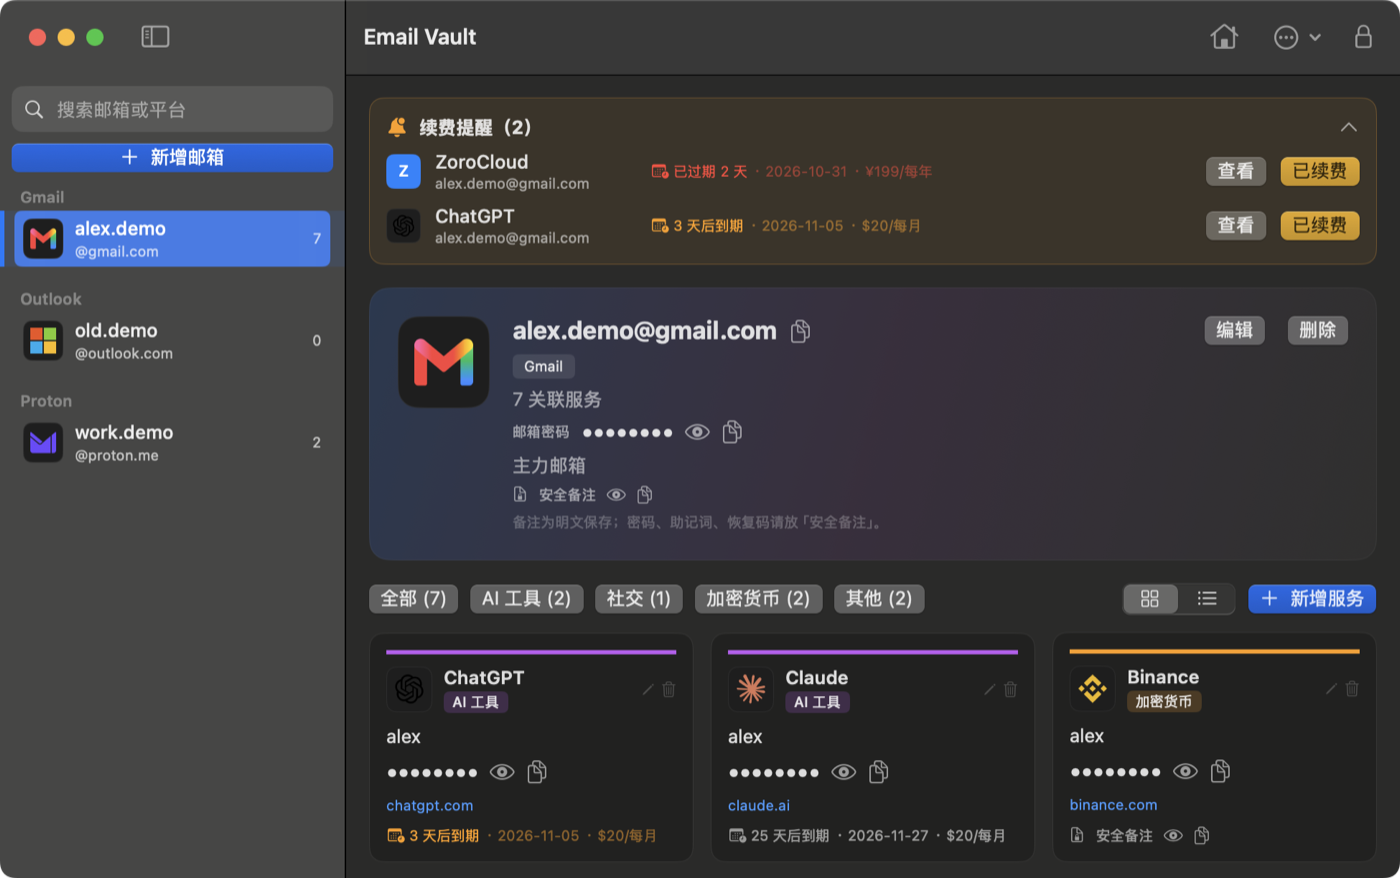
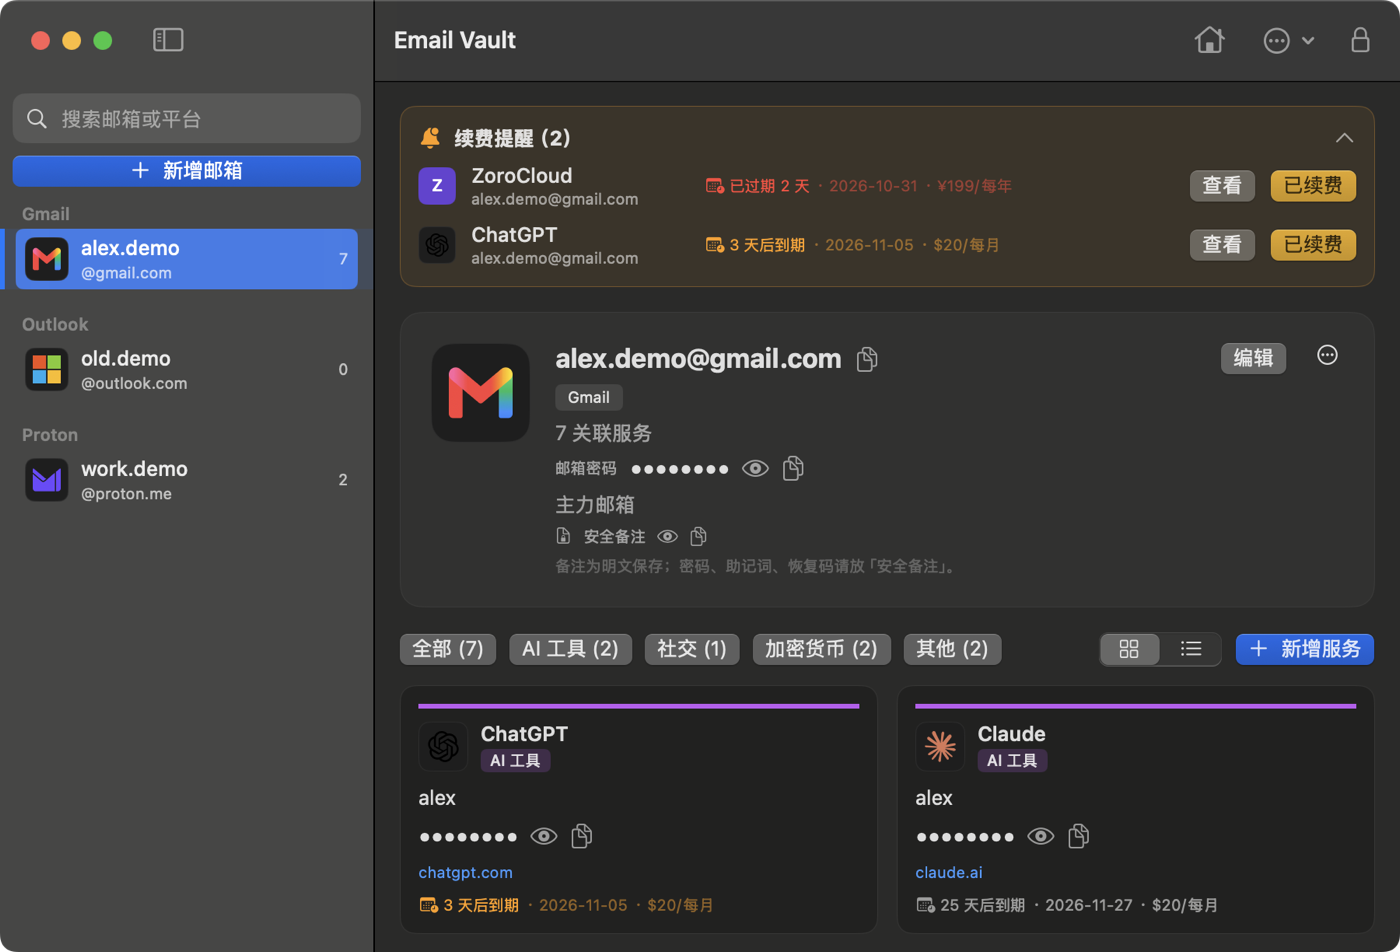
docs: bilingual README (English default, 简体中文) with fresh screenshots

diff --git a/README.md b/README.md
@@ -1,140 +1,144 @@
-# Email Vault
-
-一个纯本地、离线运行的 macOS 密码库，按「邮箱 → 注册过的平台」组织账号，跟踪订阅续费。
-
 <p align="center">
-  <img src="docs/screenshots/overview.png" width="49%" alt="总览">
-  <img src="docs/screenshots/detail.png" width="49%" alt="邮箱详情">
+  <img src="assets/icon.svg" width="128" alt="Email Vault icon">
 </p>
 
-<sub>截图使用演示数据。</sub>
+<h1 align="center">Email Vault</h1>
 
-## 特性
+<p align="center">
+  A local-only, offline password vault for macOS that organizes accounts by the email you signed up with — and keeps track of subscription renewals.
+</p>
 
-**账号管理**
-- 邮箱按服务商（Gmail、Outlook、Proton、iCloud、QQ……）分组；每个邮箱下记录它注册过的平台。
-- 内置 70+ 个常用平台目录（AI、社交、加密货币等），输入时自动补全名称、分类和网址，并匹配品牌图标。
-- 卡片 / 列表两种视图，按分类筛选；全局搜索邮箱、平台、用户名和备注。
+<p align="center">
+  <b>English</b> · <a href="README.zh-CN.md">简体中文</a>
+</p>
 
-**安全**
-- Argon2id 派生主密钥，AES-256-GCM 加密密码和安全备注；密钥只在内存中。
-- 可选 Touch ID 解锁（Secure Enclave，每 14 天仍需输入一次主密码）。
-- 闲置 10 分钟、睡眠、锁屏、屏保、切换用户时自动锁定。
-- 复制的密码标记为 concealed，30 秒后或锁定时自动清空剪贴板。
-- 支持修改主密码：单事务重新加密全部数据，失败整体回滚。
+<p align="center">
+  <a href="https://github.com/mortalxu98/email-vault/actions/workflows/ci.yml"><img src="https://github.com/mortalxu98/email-vault/actions/workflows/ci.yml/badge.svg" alt="CI"></a>
+  <img src="https://img.shields.io/badge/macOS-14%2B-blue" alt="macOS 14+">
+  <img src="https://img.shields.io/badge/Swift-5.9%2B-orange" alt="Swift 5.9+">
+  <a href="LICENSE"><img src="https://img.shields.io/badge/license-MIT-green" alt="MIT"></a>
+</p>
 
-**续费提醒**
-- 为服务设置到期日、周期（一次性 / 每月 / 每年）、金额和提前提醒天数。
-- 即将到期或已过期的项目在顶部横幅提示；「已续费」自动顺延一个周期。
+<p align="center">
+  <img src="docs/screenshots/overview-en.png" width="49%" alt="Overview">
+  <img src="docs/screenshots/detail-en.png" width="49%" alt="Email detail">
+</p>
 
-**数据**
-- 单个 SQLite 文件，结构变更只做加列，迁移前自动备份。
-- 一键导出一致性快照，备份中的敏感字段始终是密文。
+<p align="center"><sub>Screenshots use demo data.</sub></p>
 
-## 安装
+## Features
 
-从 [Releases](https://github.com/mortalxu98/email-vault/releases/latest) 下载最新的 `EmailVault-<版本>.dmg`，双击后把 Email Vault 拖到「应用程序」。
+**Accounts**
+- Emails are grouped by provider (Gmail, Outlook, Proton, iCloud, QQ…); each email lists the platforms registered with it.
+- 70+ built-in platforms (AI, social, crypto…) with autocomplete for name, category and URL, plus brand icons.
+- Card and list views, category filters and global search; right-click to copy a username or password or open the URL.
 
-本应用未经 Apple 公证。首次打开时系统会提示无法验证开发者：点「完成」，再到 **系统设置 → 隐私与安全性** 底部点「仍要打开」，只需一次。
+**Security**
+- Argon2id key derivation and AES-256-GCM encryption for passwords and secure notes; the key lives only in memory.
+- Secure notes for seed phrases, recovery codes and 2FA secrets, encrypted like passwords.
+- Optional Touch ID unlock backed by the Secure Enclave; the master password is still required every 14 days.
+- Auto-lock after 10 minutes idle and on sleep, screen lock, screensaver or user switch.
+- Copied secrets are marked concealed and cleared after 30 seconds or on lock.
+- Change the master password with a single-transaction re-encryption that rolls back on any failure.
 
-### 从源码构建
+**Renewals**
+- Track due date, cycle (one-time, monthly, yearly), amount and how many days ahead to be reminded.
+- Upcoming and overdue renewals show in a banner; "Renewed" moves the date forward one cycle.
 
-要求：macOS 14+，Swift 5.9+ 工具链（Command Line Tools 即可，无需完整 Xcode）。
+**Data**
+- One SQLite file; schema changes are additive and the database is backed up before every migration.
+- One-click encrypted backup, plus a plain-text CSV export (master password required) for migrating elsewhere.
+- English and Simplified Chinese UI, following the system language.
+
+## Install
+
+Download the latest `EmailVault-<version>.dmg` from [Releases](https://github.com/mortalxu98/email-vault/releases/latest), open it and drag Email Vault into Applications. Requires macOS 14+ on Apple silicon.
+
+The app is not notarized by Apple. On first launch macOS says it can't verify the developer: click **Done**, then go to **System Settings → Privacy & Security** and click **Open Anyway** at the bottom. You only need to do this once.
+
+On first launch you set a master password (8+ characters). **It cannot be recovered** — if you forget it, the data cannot be decrypted.
+
+To upgrade, drag the new version into Applications and choose Replace. Your data lives in `~/.local/share/email-vault/` and is left untouched. **Email Vault → Check for Updates…** opens the latest release page.
+
+### Build from source
+
+Requires macOS 14+ and a Swift 5.9+ toolchain (Command Line Tools are enough).
 
 ```bash
 git clone https://github.com/mortalxu98/email-vault.git
 cd email-vault/email-swift
-./scripts/package-dmg.sh           # 构建并打包 dist/EmailVault-<版本>.dmg
+./scripts/package-dmg.sh      # writes dist/EmailVault-<version>.dmg
 ```
 
-双击 DMG，把 Email Vault 拖到「应用程序」即可。升级时同样操作，选择替换；数据保存在 `~/.local/share/email-vault/`，不受影响。
+Run `./scripts/build.sh` if you only need the `.app`.
 
-版本号在 `email-swift/VERSION`，构建号取 git 提交数。只需要 `.app` 时用 `./scripts/build.sh`。
+## Usage
 
-构建产物为 ad-hoc 签名、未公证；本机构建的 App 可直接打开。
-
-首次启动设置主密码（至少 8 个字符）。**主密码无法找回**，遗忘即无法解密数据。
-
-## 使用
-
-| 操作 | 方式 |
+| Action | How |
 |---|---|
-| 新增邮箱 | ⇧⌘N |
-| 新增服务 | ⌘N（需先选中邮箱） |
-| 搜索 | ⌘F |
-| 立即锁定 | ⌘L，或工具栏锁形按钮 |
-| 回到总览 | 工具栏房子按钮 |
-| 导出备份 / 修改主密码 / Touch ID | 工具栏「…」菜单 |
+| New email / new service | ⇧⌘N / ⌘N (select an email first) |
+| Search | ⌘F |
+| Lock now | ⌘L, or the lock button in the toolbar |
+| Back to overview | House button in the toolbar |
+| Copy, open URL, edit, delete | Right-click a service card |
+| Backup, CSV export, change password, Touch ID | Toolbar **…** menu |
 
-## 安全模型
+## Security model
 
-| 数据 | 存储方式 |
+| Data | Stored as |
 |---|---|
-| 邮箱密码、服务密码 | AES-256-GCM 密文 |
-| 安全备注（助记词、恢复码、2FA 密钥等） | AES-256-GCM 密文 |
-| 邮箱地址、平台名、用户名、网址、普通备注、续费信息 | 明文（用于搜索和提醒） |
+| Email and service passwords | AES-256-GCM ciphertext |
+| Secure notes | AES-256-GCM ciphertext |
+| Email addresses, platform names, usernames, URLs, notes, renewal info | Plain text (for search and reminders) |
 
-- **密钥派生**：Argon2id v1.3，`t=3, m=64 MiB, p=4`，16 字节随机 salt；参数存于数据库，可平滑调整。
-- **主密码校验**：用派生密钥解密固定校验串，不存储任何密码哈希。
-- **Touch ID**：保险箱密钥经 ECDH + HKDF + AES-GCM 封装到绑定当前指纹的 Secure Enclave 密钥，封装文件只能在本机解开；增删指纹后自动失效。
-- **不防护的场景**：已解锁状态下的本机恶意软件、能通过你指纹验证的人、主密码泄露。明文字段不要写敏感信息。
+- **Key derivation**: Argon2id v1.3, `t=3, m=64 MiB, p=4`, random 16-byte salt; parameters are stored in the database.
+- **Password check**: the derived key must decrypt a fixed verifier; no password hash is stored.
+- **Touch ID**: the vault key is sealed with ECDH + HKDF + AES-GCM to a Secure Enclave key bound to the current fingerprints. The sealed file only opens on this Mac and is invalidated when fingerprints change.
+- **Out of scope**: malware running while the vault is unlocked, anyone who passes your fingerprint check, a leaked master password. Don't put secrets in plain-text fields.
 
-应用不联网，不记录日志，不把明文写入磁盘、UserDefaults 或任何缓存。
+The app never touches the network, writes no logs and never stores plaintext on disk or in caches (except a CSV you explicitly export). The full on-disk format is specified in [docs/data-format.md](docs/data-format.md).
 
-## 数据与备份
+## Data and backups
 
-| 路径 | 内容 |
+| Path | Contents |
 |---|---|
-| `~/.local/share/email-vault/vault.db` | 数据库（权限 0600） |
-| `~/.local/share/email-vault/backups/` | 迁移、修改主密码前的自动备份 |
-| `~/.local/share/email-vault/vault.touchid.json` | Touch ID 封装（仅开启时存在） |
+| `~/.local/share/email-vault/vault.db` | Database (0600) |
+| `~/.local/share/email-vault/backups/` | Automatic backups before migrations and password changes |
+| `~/.local/share/email-vault/vault.touchid.json` | Touch ID seal (only when enabled) |
 
-设置环境变量 `EMAIL_VAULT_DB` 可指定其他数据库路径，例如用副本做测试：
+- **Back up**: toolbar **…** → Export Backup, or `sqlite3 ~/.local/share/email-vault/vault.db ".backup <dest>"`.
+- **Restore**: quit the app, replace `vault.db` with the backup and reopen; unlock with the master password from when the backup was made.
+- **Use another database**: `open -n --env EMAIL_VAULT_DB=/path/to/vault.db "/Applications/Email Vault.app"`.
 
-```bash
-open -n --env EMAIL_VAULT_DB=/tmp/vault-copy.db "/Applications/Email Vault.app"
-```
-
-**备份**：工具栏「…」→ 导出备份，或 `sqlite3 ~/.local/share/email-vault/vault.db ".backup <目标路径>"`。
-
-**恢复**：退出应用，用备份文件替换 `vault.db` 后重新打开，使用备份时的主密码解锁。若主密码与当前不同，Touch ID 会自动关闭，重新开启即可。
-
-## 开发
+## Development
 
 ```
 email-swift/
-├── Sources/EmailVaultCore/   加密、认证、SQLite 存储、平台目录（平台无关，可在 Linux 测试）
-├── Sources/EmailVaultApp/    SwiftUI 界面与应用状态
-├── Sources/CArgon2/          Argon2 官方 C 参考实现（vendored）
-├── Tests/                    Core 单元测试
-├── scripts/build.sh          构建 .app，支持 --dry-run / --debug
-├── scripts/package-dmg.sh    打包拖拽安装 DMG，支持 --skip-build / --dry-run
-└── scripts/release.sh        发布 GitHub Release（读取 VERSION，打 tag，上传 DMG）
+├── Sources/EmailVaultCore/   Crypto, auth, SQLite store and migrations, platform catalog, CSV export
+├── Sources/EmailVaultApp/    SwiftUI views and app state
+├── Sources/CArgon2/          Argon2 reference implementation
+├── Tests/                    Core unit tests
+├── Localization/             UI translations (en / zh-Hans)
+└── scripts/                  Build, DMG packaging, release, icon, translation check
 ```
 
 ```bash
 cd email-swift
 swift build
-swift test            # 需要完整 Xcode（XCTest）
+swift test        # needs full Xcode
 ```
 
-- 设计说明：[`email-swift/docs/design.md`](email-swift/docs/design.md)
-- 数据格式与加密测试向量：[`docs/data-format.md`](docs/data-format.md)
+See [CONTRIBUTING.md](CONTRIBUTING.md) for the workflow, conventions and release steps, [email-swift/docs/design.md](email-swift/docs/design.md) for architecture notes and [CHANGELOG.md](CHANGELOG.md) for release history.
 
-参与开发请阅读 [CONTRIBUTING.md](CONTRIBUTING.md)，发布流程也在其中。
+## Security
 
-开发调试一律使用临时数据库（`EMAIL_VAULT_DB`），不要直接操作真实数据。
+Please report vulnerabilities privately as described in [SECURITY.md](SECURITY.md) — not in public issues.
 
-## 安全
-
-发现漏洞请按 [SECURITY.md](SECURITY.md) 私下报告，不要开公开 Issue。
-
-## 许可证
+## License
 
 [MIT](LICENSE)
 
-## 致谢
+## Acknowledgements
 
-- [Argon2](https://github.com/P-H-C/phc-winner-argon2) 参考实现
-- [GRDB.swift](https://github.com/groue/GRDB.swift)、[swift-crypto](https://github.com/apple/swift-crypto)
-- 品牌图标来自 CC0 图标集 [gilbarbara/logos](https://github.com/gilbarbara/logos) 与 [Simple Icons](https://simpleicons.org)，商标归各自所有者，详见 [`Resources/README.md`](email-swift/Sources/EmailVaultApp/Resources/README.md)。
+- The [Argon2](https://github.com/P-H-C/phc-winner-argon2) reference implementation, [GRDB.swift](https://github.com/groue/GRDB.swift) and [swift-crypto](https://github.com/apple/swift-crypto)
+- Brand icons come from the CC0 sets [gilbarbara/logos](https://github.com/gilbarbara/logos) and [Simple Icons](https://simpleicons.org); trademarks belong to their owners.

diff --git a/README.zh-CN.md b/README.zh-CN.md
@@ -1,0 +1,144 @@
+<p align="center">
+  <img src="assets/icon.svg" width="128" alt="Email Vault 图标">
+</p>
+
+<h1 align="center">Email Vault</h1>
+
+<p align="center">
+  纯本地、离线运行的 macOS 密码库：按「邮箱 → 注册过的平台」组织账号，并跟踪订阅续费。
+</p>
+
+<p align="center">
+  <a href="README.md">English</a> · <b>简体中文</b>
+</p>
+
+<p align="center">
+  <a href="https://github.com/mortalxu98/email-vault/actions/workflows/ci.yml"><img src="https://github.com/mortalxu98/email-vault/actions/workflows/ci.yml/badge.svg" alt="CI"></a>
+  <img src="https://img.shields.io/badge/macOS-14%2B-blue" alt="macOS 14+">
+  <img src="https://img.shields.io/badge/Swift-5.9%2B-orange" alt="Swift 5.9+">
+  <a href="LICENSE"><img src="https://img.shields.io/badge/license-MIT-green" alt="MIT"></a>
+</p>
+
+<p align="center">
+  <img src="docs/screenshots/overview.png" width="49%" alt="总览">
+  <img src="docs/screenshots/detail.png" width="49%" alt="邮箱详情">
+</p>
+
+<p align="center"><sub>截图使用演示数据。</sub></p>
+
+## 特性
+
+**账号管理**
+- 邮箱按服务商（Gmail、Outlook、Proton、iCloud、QQ……）分组，每个邮箱下记录它注册过的平台。
+- 内置 70+ 常用平台（AI、社交、加密货币等），输入时自动补全名称、分类和网址，并显示品牌图标。
+- 卡片 / 列表视图、分类筛选、全局搜索；右键快速复制用户名、密码或打开网址。
+
+**安全**
+- Argon2id 派生主密钥，AES-256-GCM 加密密码与安全备注，密钥只在内存中。
+- 安全备注：加密保存助记词、恢复码、2FA 密钥。
+- 可选 Touch ID 解锁（Secure Enclave，每 14 天仍需输入一次主密码）。
+- 闲置 10 分钟、睡眠、锁屏、屏保、切换用户时自动锁定。
+- 复制的密码标记为 concealed，30 秒后或锁定时自动清除。
+- 修改主密码：单事务重新加密全部数据，失败整体回滚。
+
+**续费提醒**
+- 为服务设置到期日、周期（一次性 / 每月 / 每年）、金额和提前提醒天数。
+- 即将到期或已过期的项目在顶部提示，「已续费」自动顺延一个周期。
+
+**数据**
+- 单个 SQLite 文件；结构变更只做加列，迁移前自动备份。
+- 一键导出加密备份；需要迁移时可导出明文 CSV（需再次输入主密码）。
+- 界面支持简体中文和英文，跟随系统语言。
+
+## 安装
+
+从 [Releases](https://github.com/mortalxu98/email-vault/releases/latest) 下载最新的 `EmailVault-<版本>.dmg`，双击后把 Email Vault 拖到「应用程序」。要求 macOS 14+，Apple 芯片。
+
+本应用未经 Apple 公证。首次打开时系统会提示无法验证开发者：点「完成」，再到 **系统设置 → 隐私与安全性** 底部点「仍要打开」，只需一次。
+
+首次启动需设置主密码（至少 8 个字符）。**主密码无法找回**，遗忘即无法解密数据。
+
+升级：下载新版 DMG，拖入「应用程序」并选择替换。数据保存在 `~/.local/share/email-vault/`，不受影响。也可以在菜单「Email Vault → 检查更新…」打开最新版本页面。
+
+### 从源码构建
+
+需要 macOS 14+ 和 Swift 5.9+ 工具链（Command Line Tools 即可）。
+
+```bash
+git clone https://github.com/mortalxu98/email-vault.git
+cd email-vault/email-swift
+./scripts/package-dmg.sh      # 输出 dist/EmailVault-<版本>.dmg
+```
+
+只需要 `.app` 时运行 `./scripts/build.sh`。
+
+## 使用
+
+| 操作 | 方式 |
+|---|---|
+| 新增邮箱 / 新增服务 | ⇧⌘N / ⌘N（需先选中邮箱） |
+| 搜索 | ⌘F |
+| 立即锁定 | ⌘L，或工具栏锁形按钮 |
+| 回到总览 | 工具栏房子按钮 |
+| 复制、打开网址、编辑、删除 | 在服务卡片上右键 |
+| 导出备份 / 导出 CSV / 修改主密码 / Touch ID | 工具栏「…」菜单 |
+
+## 安全模型
+
+| 数据 | 存储方式 |
+|---|---|
+| 邮箱密码、服务密码 | AES-256-GCM 密文 |
+| 安全备注 | AES-256-GCM 密文 |
+| 邮箱地址、平台名、用户名、网址、普通备注、续费信息 | 明文（用于搜索和提醒） |
+
+- **密钥派生**：Argon2id v1.3，`t=3, m=64 MiB, p=4`，16 字节随机 salt，参数存于数据库。
+- **主密码校验**：用派生密钥解密固定校验串，不存储任何密码哈希。
+- **Touch ID**：保险箱密钥经 ECDH + HKDF + AES-GCM 封装到绑定当前指纹的 Secure Enclave 密钥，封装文件只能在本机解开，增删指纹后自动失效。
+- **不防护的场景**：已解锁状态下的本机恶意软件、能通过你指纹验证的人、主密码泄露。明文字段不要写敏感信息。
+
+应用不联网，不记录日志，不把明文写入磁盘或任何缓存（主动导出的 CSV 除外）。完整格式见 [docs/data-format.md](docs/data-format.md)。
+
+## 数据与备份
+
+| 路径 | 内容 |
+|---|---|
+| `~/.local/share/email-vault/vault.db` | 数据库（0600） |
+| `~/.local/share/email-vault/backups/` | 迁移、修改主密码前的自动备份 |
+| `~/.local/share/email-vault/vault.touchid.json` | Touch ID 封装（仅开启时存在） |
+
+- **备份**：工具栏「…」→ 导出备份，或 `sqlite3 ~/.local/share/email-vault/vault.db ".backup <目标路径>"`。
+- **恢复**：退出应用，用备份文件替换 `vault.db` 后重新打开，使用备份当时的主密码解锁。
+- **指定数据库**：`open -n --env EMAIL_VAULT_DB=/path/to/vault.db "/Applications/Email Vault.app"`。
+
+## 开发
+
+```
+email-swift/
+├── Sources/EmailVaultCore/   加密、认证、SQLite 存储与迁移、平台目录、CSV 导出
+├── Sources/EmailVaultApp/    SwiftUI 界面与应用状态
+├── Sources/CArgon2/          Argon2 官方 C 参考实现
+├── Tests/                    Core 单元测试
+├── Localization/             界面翻译（en / zh-Hans）
+└── scripts/                  构建、打包 DMG、发布、图标、翻译检查
+```
+
+```bash
+cd email-swift
+swift build
+swift test        # 需要完整 Xcode
+```
+
+贡献流程、代码规范和发布步骤见 [CONTRIBUTING.md](CONTRIBUTING.md)，架构说明见 [email-swift/docs/design.md](email-swift/docs/design.md)。版本变化见 [CHANGELOG.md](CHANGELOG.md)。
+
+## 安全
+
+发现漏洞请按 [SECURITY.md](SECURITY.md) 私下报告，不要开公开 Issue。
+
+## 许可证
+
+[MIT](LICENSE)
+
+## 致谢
+
+- [Argon2](https://github.com/P-H-C/phc-winner-argon2) 参考实现，[GRDB.swift](https://github.com/groue/GRDB.swift)，[swift-crypto](https://github.com/apple/swift-crypto)
+- 品牌图标来自 CC0 图标集 [gilbarbara/logos](https://github.com/gilbarbara/logos) 与 [Simple Icons](https://simpleicons.org)，商标归各自所有者。

diff --git a/CHANGELOG.md b/CHANGELOG.md
@@ -11,6 +11,7 @@
 - MIT 许可证、安全策略、贡献指南、Issue / PR 模板。
 - 服务卡片和列表行支持右键菜单：复制用户名、密码、安全备注，打开网址，编辑，删除。
 - 解锁与设置页面显示应用图标。
+- README 提供英文与简体中文两个版本，可互相切换。
 - 界面支持英文：跟随系统语言，中文系统显示中文，其他语言显示英文；系统菜单同步本地化。
 - 「关于 Email Vault」显示版本号、构建号与项目链接；新增「检查更新…」，在浏览器中打开最新版本页面。
 - 导出 CSV（明文）：需再次输入主密码，文件权限 0600，包含全部密码、安全备注和续费信息，用于迁移到其他工具。
